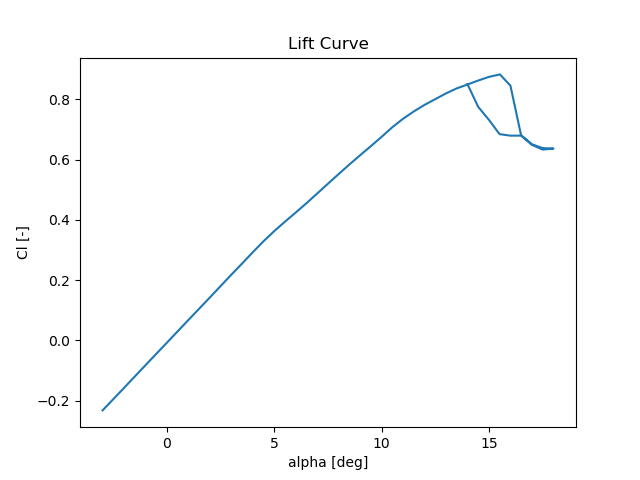
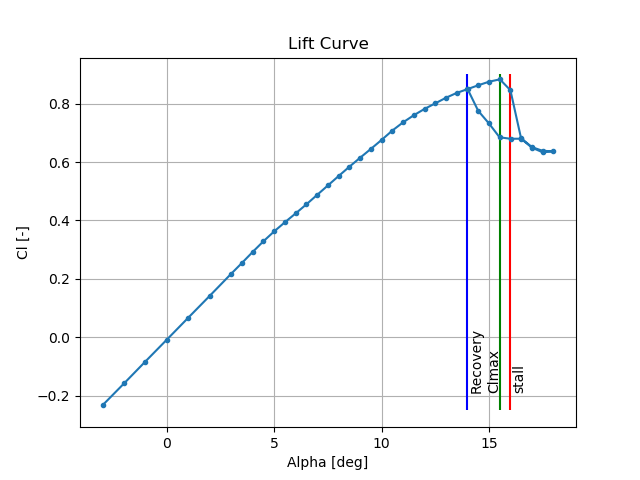
Updated plotting script

diff --git a/main3d.py b/main3d.py
@@ -19,13 +19,23 @@ for i in range(2,47): # importing data from excel file
     Cl.append(sheet.cell_value(i, 3))
     Cd.append(sheet.cell_value(i, 4))
 
-
+4
 print(Alpha, Cl, Cd)
 
 
-plt.plot(Alpha, Cl)
+plt.plot(Alpha, Cl, marker='.')
 plt.xlabel("Alpha [deg]")
 plt.ylabel("Cl [-]")
 plt.title("Lift Curve")
+plt.grid()
+
+plt.vlines(16, -0.25, 0.9, colors='r')
+plt.text(16.1,-0.18,"stall", rotation=90)
+
+plt.vlines(15.5, -0.25, 0.9, colors='g')
+plt.text(14.9, -0.18, "Clmax", rotation=90)
+
+plt.vlines(14, -0.25, 0.9, colors='b')
+plt.text(14.1, -0.18, "Recovery", rotation=90)
 plt.savefig("liftcurve.png")
 plt.show()
